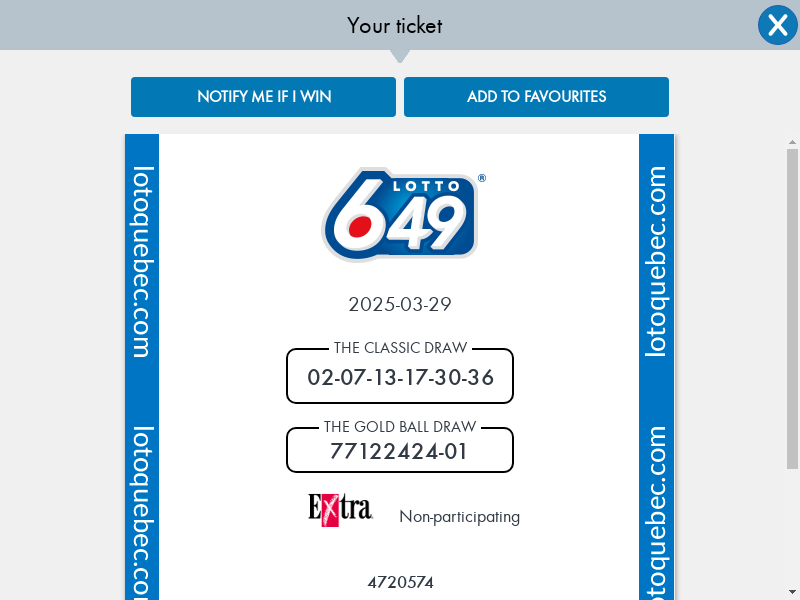
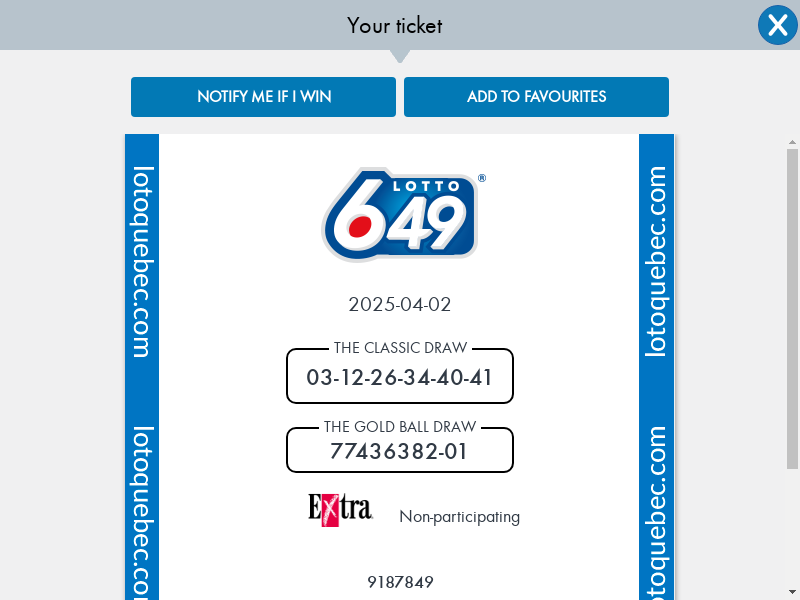
auto commit

diff --git a/docs/index.html b/docs/index.html
@@ -76,7 +76,14 @@
             </tr>
             </thead>
             <tbody>
-            <tr><td>2025-03-26</td><td>02-07-13-17-30-36</td><td>empty</td><td>{
+            <tr><td>2025-03-29</td><td>03-12-26-34-40-41</td><td>empty</td><td>{
+  "generate_nums": ["03", "12", "26", "34", "40", "41"]
+}</td></tr>
+<tr><td>2025-03-26</td><td>02-07-13-17-30-36</td><td>match 0 number, win number: The Classic Draw
+
+
+14-23-24-27-34-42 Bonus (B):
+(43)</td><td>{
   "generate_nums": ["02", "07", "13", "17", "30", "36"]
 }</td></tr>
 <tr><td>2025-03-22</td><td>02-14-26-34-37-45</td><td>match 1 number, win number: The Classic Draw
